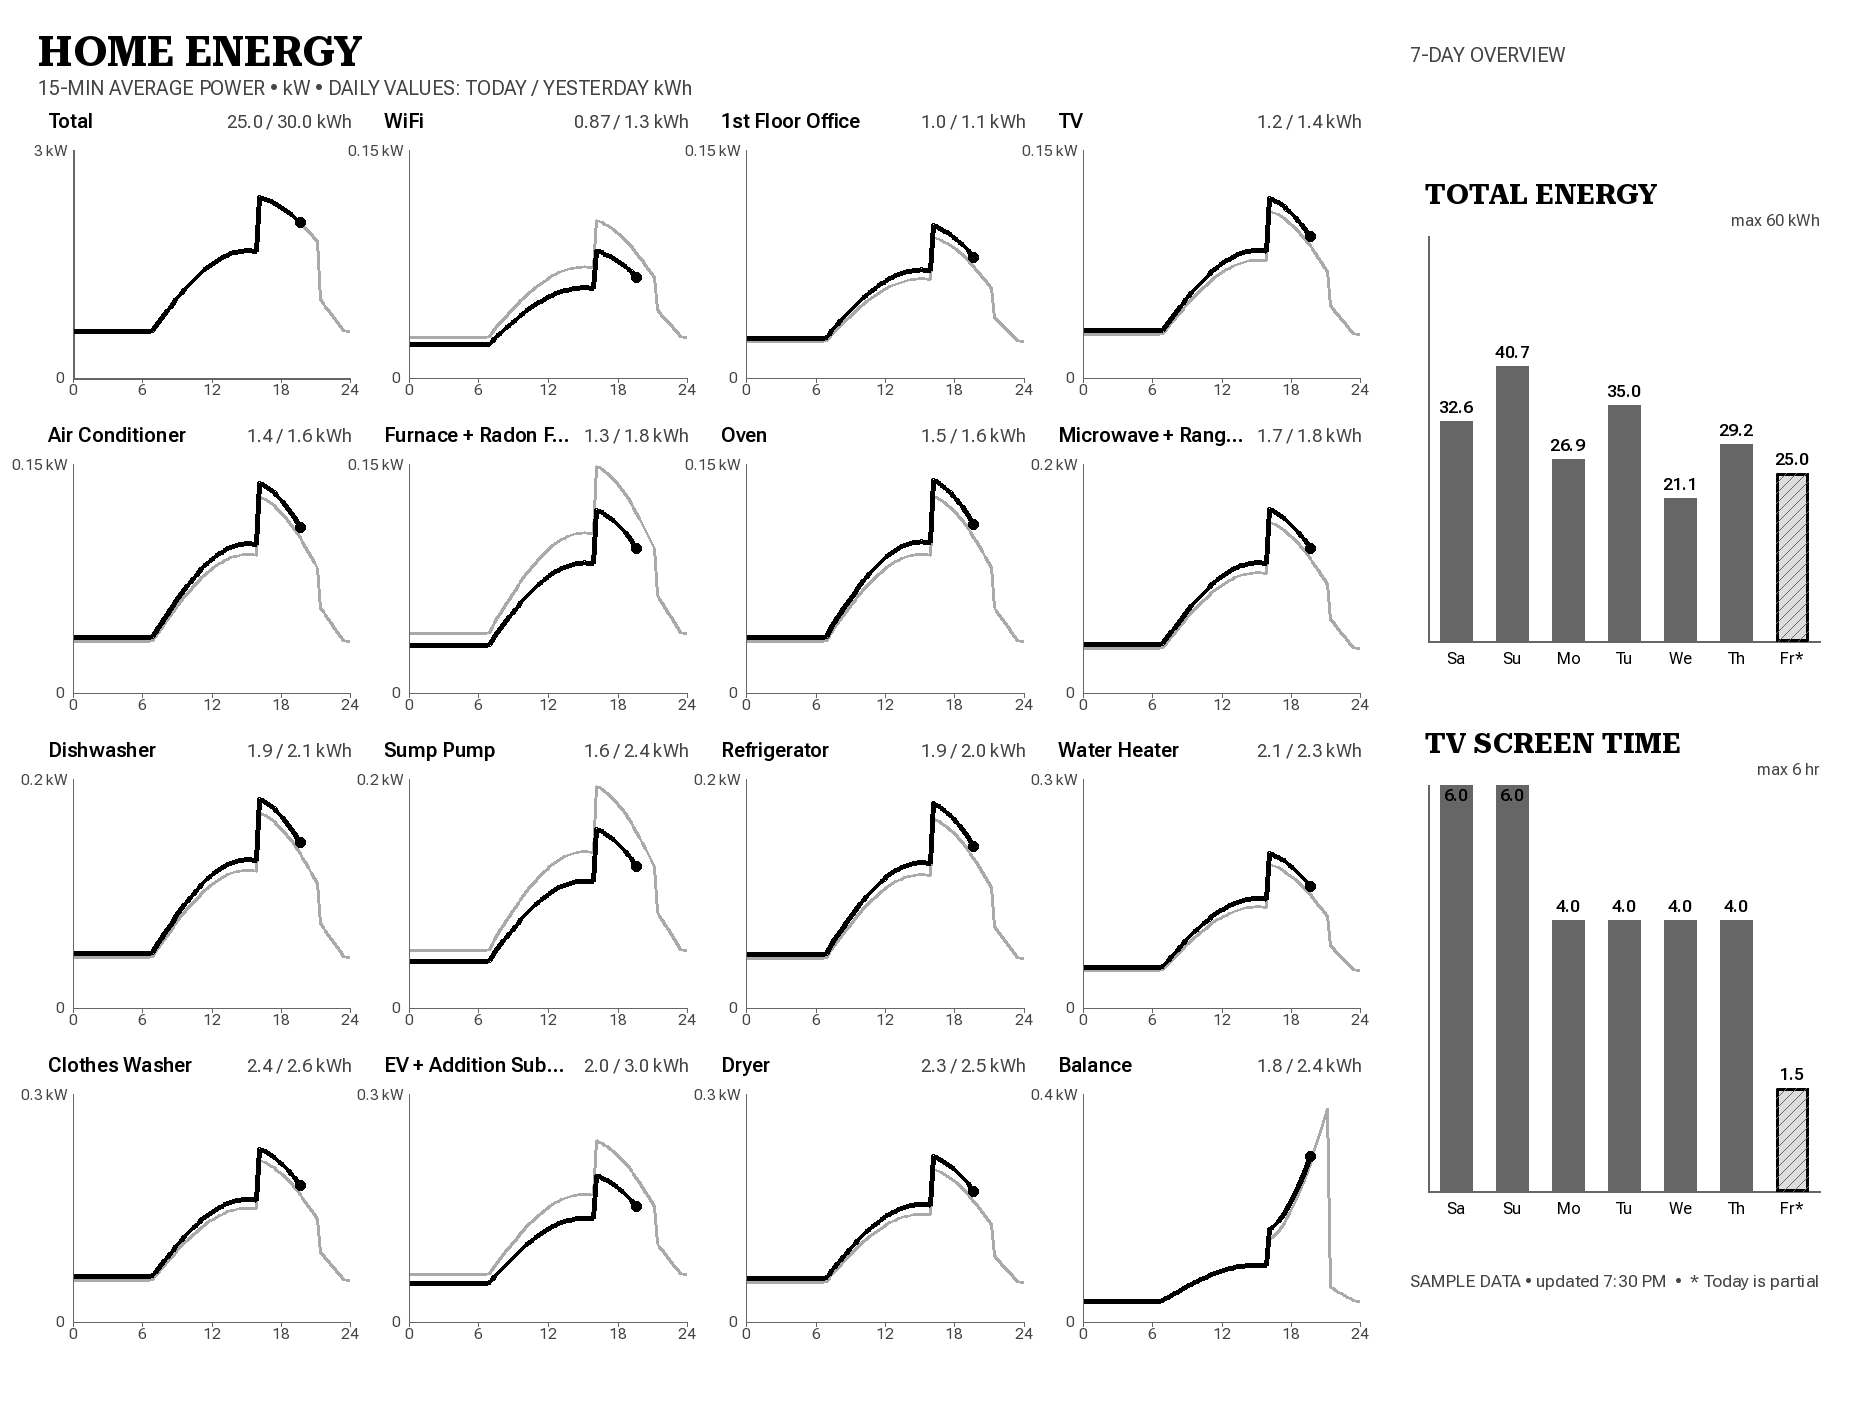
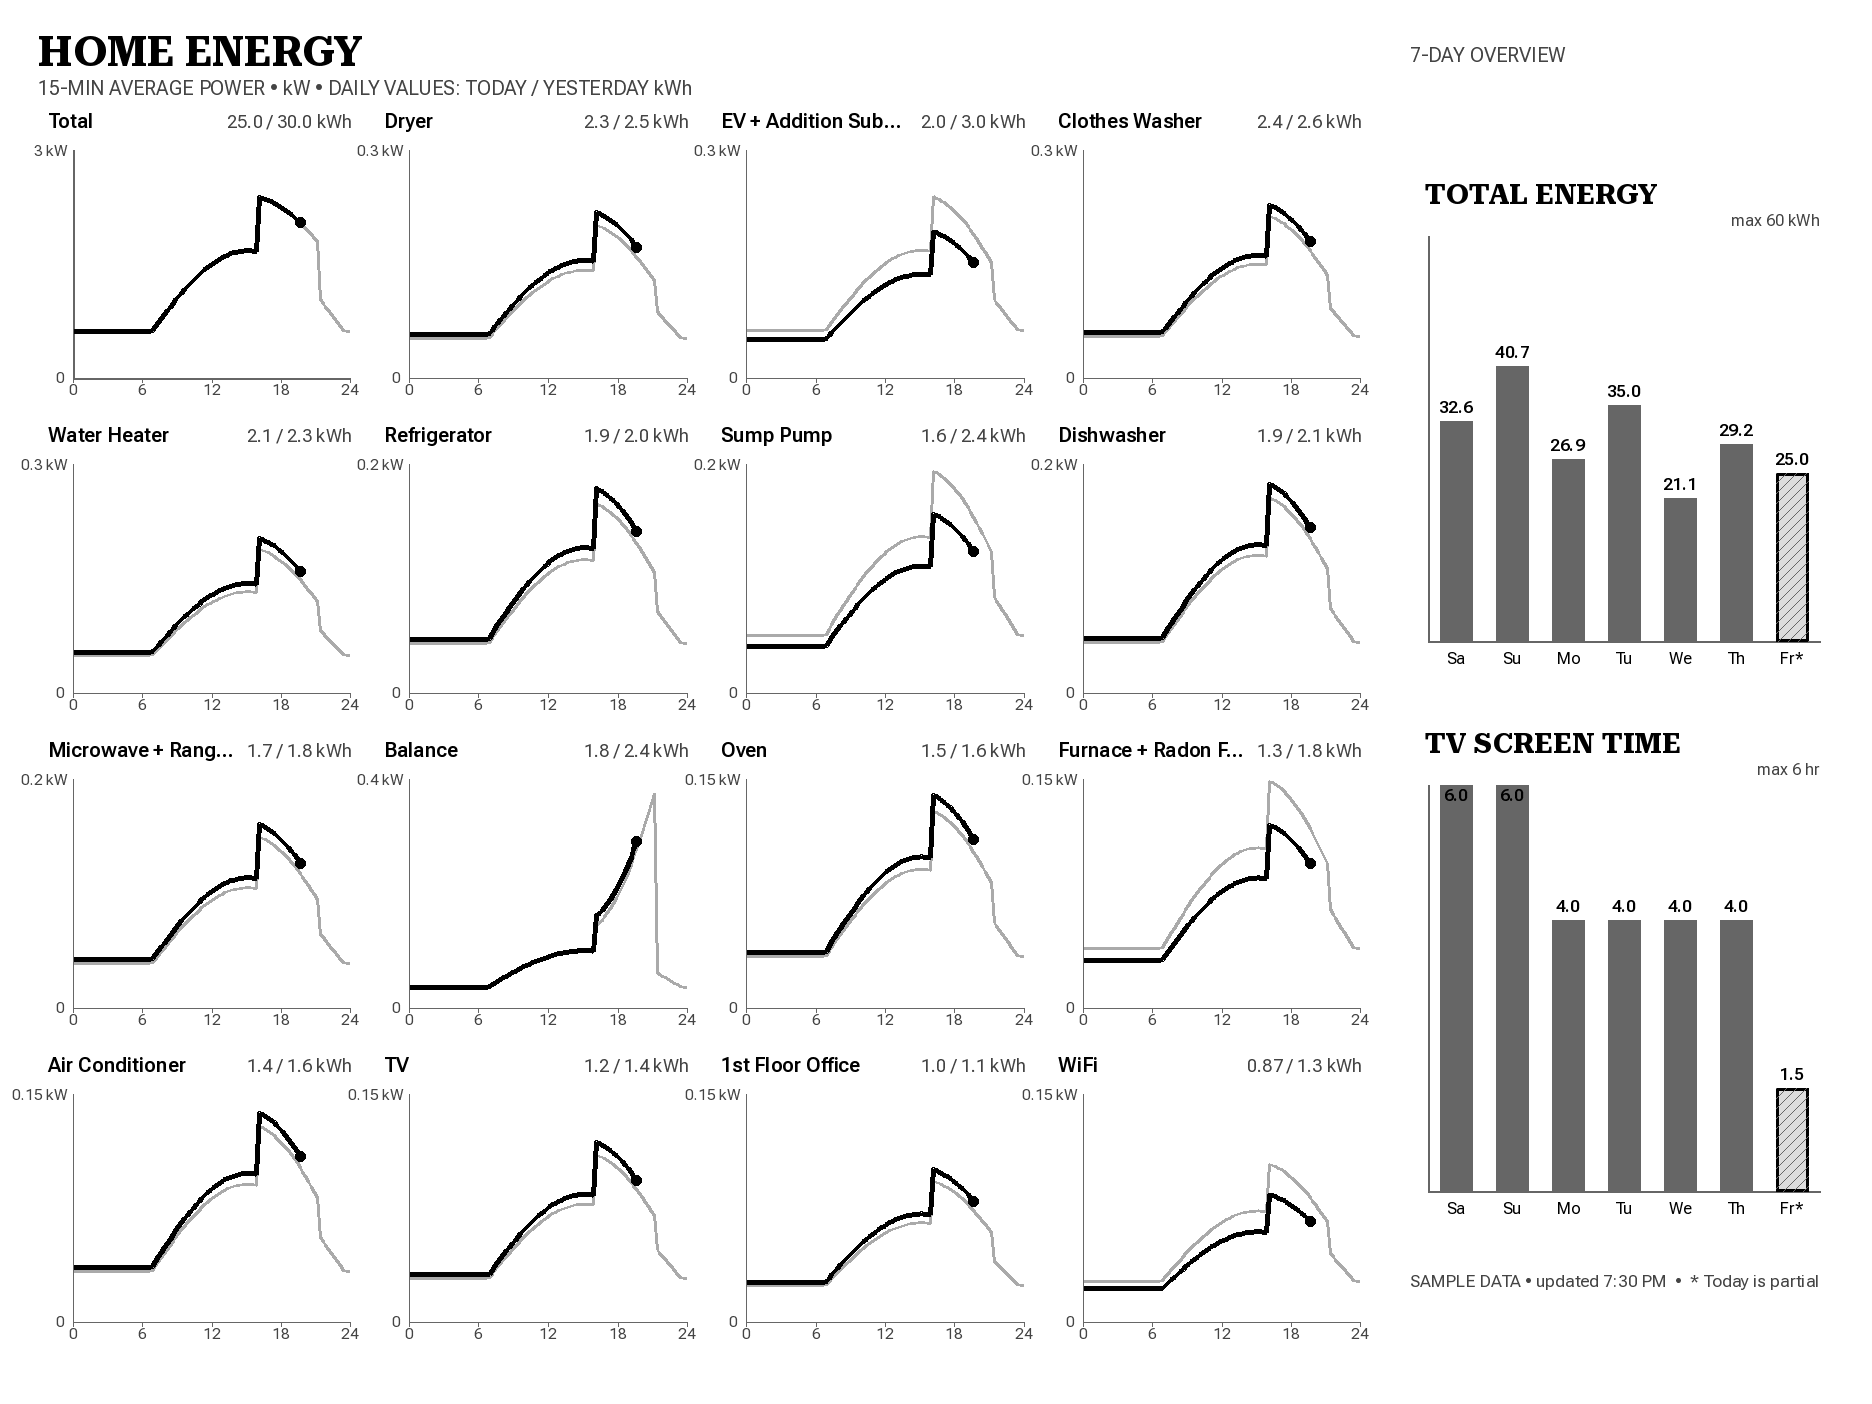
Sort energy plots by monthly usage

diff --git a/tests/test_energy_render.py b/tests/test_energy_render.py
@@ -3,6 +3,7 @@ from __future__ import annotations
 import struct
 import tempfile
 import unittest
+from dataclasses import replace
 from datetime import datetime, timedelta, timezone
 from pathlib import Path
 from zoneinfo import ZoneInfo
@@ -44,13 +45,31 @@ class EnergyRenderTests(unittest.TestCase):
         self.assertEqual(image.size, (W, H))
         self.assertEqual(image.mode, "L")
 
-    def test_panel_order_and_grid_are_stable(self) -> None:
+    def test_panels_sort_by_month_usage_with_total_pinned_first(self) -> None:
         series = stable_plot_series(self.data.series)
 
         self.assertEqual(len(series), PANEL_COUNT)
         self.assertEqual(series[0].key, "total")
-        self.assertEqual(series[-1].key, "balance")
+        self.assertEqual(
+            [item.month_kwh for item in series[1:]],
+            sorted((item.month_kwh for item in series[1:]), reverse=True),
+        )
         self.assertEqual(len({panel_box(index) for index in range(PANEL_COUNT)}), PANEL_COUNT)
+
+    def test_month_usage_ties_have_deterministic_label_and_key_order(self) -> None:
+        total = next(item for item in self.data.series if item.key == "total")
+        tied = [
+            replace(item, month_kwh=1.0)
+            for item in reversed(self.data.series)
+            if item.key != "total"
+        ]
+
+        ordered = stable_plot_series([*tied, total])
+
+        self.assertEqual(
+            [(item.label.casefold(), item.key) for item in ordered[1:]],
+            sorted((item.label.casefold(), item.key) for item in tied),
+        )
 
     def test_small_multiples_are_despined_without_legend_or_grid_guides(self) -> None:
         image = render_energy_image(self.data)

diff --git a/src/trmnl_weekly_calendar/energy_render.py b/src/trmnl_weekly_calendar/energy_render.py
@@ -104,12 +104,14 @@ def render_energy_image(
 
 
 def stable_plot_series(series: Sequence[EnergyPlotSeries]) -> tuple[EnergyPlotSeries, ...]:
-    """Keep Total first and Balance last while preserving physical-channel order."""
+    """Keep Total first, then rank every other panel by month-to-date energy."""
 
     total = [item for item in series if item.key == "total"]
-    balance = [item for item in series if item.key == "balance"]
-    physical = [item for item in series if item.key not in {"total", "balance"}]
-    ordered = tuple(total + physical + balance)
+    circuits = sorted(
+        (item for item in series if item.key != "total"),
+        key=lambda item: (-item.month_kwh, item.label.casefold(), item.key),
+    )
+    ordered = tuple(total + circuits)
     if ordered and len(ordered) != PANEL_COUNT:
         raise ValueError(f"energy dashboard requires {PANEL_COUNT} plot series")
     return ordered

diff --git a/docs/agent-plans/2026-08-07-energy-monthly-sort.md b/docs/agent-plans/2026-08-07-energy-monthly-sort.md
@@ -154,3 +154,10 @@ Not configured.
   incremental current-month `1D` refreshes, month-boundary pruning, month-to-date
   totals including today's partial buckets, and residual Balance calculation.
   All 18 focused energy-data tests, compileall, and diff checks pass.
+- 2026-08-07: Chunk 2 DONE. Total is pinned first and all physical circuits plus
+  Balance sort by descending `month_kwh` with deterministic ties. Regenerated and
+  visually inspected mock and live images; the full 63-test suite, compileall,
+  diff check, and exact 1872x1404 4-bit PNG checks pass.
+- 2026-08-07: Final review found no correctness, integration, regression, or
+  unrelated-change findings. Verified live rankings against the persisted monthly
+  totals and published public fingerprint `f5b74fcea3e6b28a`.
